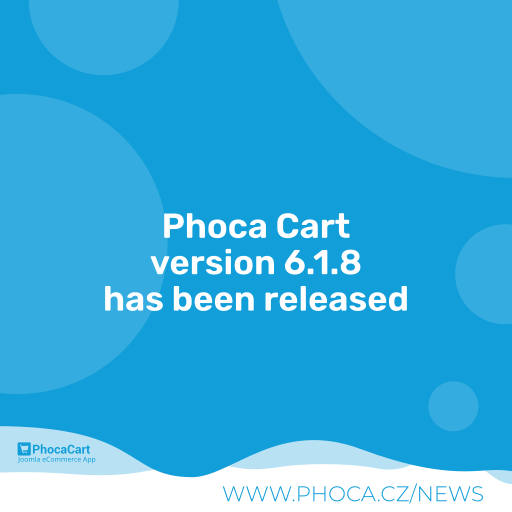
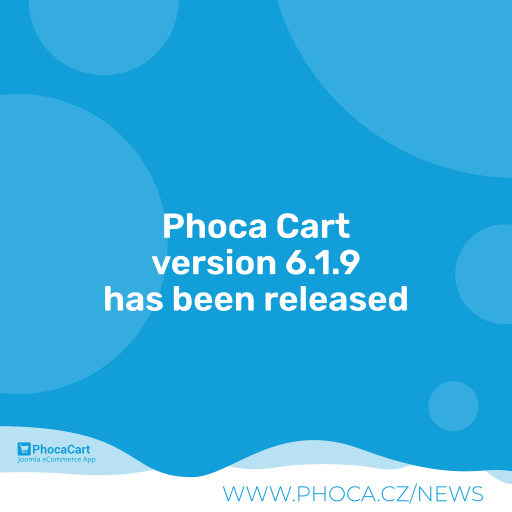
6.1.9

Changed region(s): [[0.2812, 0.4688, 0.7188, 0.5312]]

diff --git a/admin/help/en-GB/screen.phocacart.html b/admin/help/en-GB/screen.phocacart.html
@@ -70,8 +70,11 @@ body {
 <ul>
 <li><a href="https://www.phoca.cz/phocacartdemo/" target="_blank">Phoca Cart Demo</a></li>
 <li><a href="https://www.phoca.cz/phocacartdemo/premiere/" target="_blank">Phoca Cart - Phoca Premiere Template Demo</a></li>
-<li><a href="https://www.phoca.cz/stockphoto/" target="_blank">Phoca Cart Demo - Phoca Stock Photo</a></li>
 <li><a href="https://www.phoca.cz/phocacartdemo/astroid/" target="_blank">Phoca Cart - Astroid Framework Demo</a></li>
+<li><a href="https://www.phoca.cz/phocacartdemo/yootheme/" target="_blank">Phoca Cart - YOOtheme Framework Demo</a></li>
+<li><a href="https://www.phoca.cz/stockphoto/" target="_blank">Phoca Cart Demo - Phoca Stock Photo</a></li>
+<li><a href="https://www.phoca.cz/phocacart5demo/" target="_blank">Phoca Cart (Joomla 5)</a></li>
+<li><a href="https://www.phoca.cz/phocacart4demo/" target="_blank">Phoca Cart (Joomla 4)</a></li>
 <li><a href="https://www.phoca.cz/jtd/" target="_blank">Joomla! Templates Directory</a></li>
 </ul>
 <p>&nbsp;</p>

diff --git a/admin/help/screen.phocacart.html b/admin/help/screen.phocacart.html
@@ -70,8 +70,11 @@ body {
 <ul>
 <li><a href="https://www.phoca.cz/phocacartdemo/" target="_blank">Phoca Cart Demo</a></li>
 <li><a href="https://www.phoca.cz/phocacartdemo/premiere/" target="_blank">Phoca Cart - Phoca Premiere Template Demo</a></li>
-<li><a href="https://www.phoca.cz/stockphoto/" target="_blank">Phoca Cart Demo - Phoca Stock Photo</a></li>
 <li><a href="https://www.phoca.cz/phocacartdemo/astroid/" target="_blank">Phoca Cart - Astroid Framework Demo</a></li>
+<li><a href="https://www.phoca.cz/phocacartdemo/yootheme/" target="_blank">Phoca Cart - YOOtheme Framework Demo</a></li>
+<li><a href="https://www.phoca.cz/stockphoto/" target="_blank">Phoca Cart Demo - Phoca Stock Photo</a></li>
+<li><a href="https://www.phoca.cz/phocacart5demo/" target="_blank">Phoca Cart (Joomla 5)</a></li>
+<li><a href="https://www.phoca.cz/phocacart4demo/" target="_blank">Phoca Cart (Joomla 4)</a></li>
 <li><a href="https://www.phoca.cz/jtd/" target="_blank">Joomla! Templates Directory</a></li>
 </ul>
 <p>&nbsp;</p>

diff --git a/admin/libraries/phocacart/download/download.php b/admin/libraries/phocacart/download/download.php
@@ -157,6 +157,19 @@ class PhocacartDownload
 			return false;
 		}
 
+        // CHECK USER AND TOKEN
+        $isOwner = ((int)$user->id > 0 && isset($file->userid) && (int)$user->id === (int)$file->userid);
+
+        if (!$isOwner) {
+            // Guest or non-owner must supply BOTH tokens, and they must match the stored values
+            if ($tokenDownload === '' || $tokenOrder === ''
+                || !isset($file->download_token) || !isset($file->order_token)
+                || !hash_equals((string)$file->download_token, (string)$tokenDownload)
+                || !hash_equals((string)$file->order_token, (string)$tokenOrder)) {
+                return false;
+            }
+        }
+
 
 
 		// CHECK COUNT

diff --git a/admin/libraries/phocacart/order/status.php b/admin/libraries/phocacart/order/status.php
@@ -777,7 +777,7 @@ class PhocacartOrderStatus
             $emailSend = $status['email_send'];
         }
 
-        if ($emailSendFormat === 99) {
+        if ($emailSendFormat == '99') {
             $emailSendFormat = $status['email_send_format'];
         }
 

diff --git a/README.MD b/README.MD
@@ -94,8 +94,11 @@ If you need additional information beyond this GitHub repository, further docume
 
 - [Phoca Cart Demo](https://www.phoca.cz/phocacartdemo/)
 - [Phoca Cart - Phoca Premiere Template Demo](https://www.phoca.cz/phocacartdemo/premiere/)
-- [Phoca Cart Demo - Phoca Stock Photo](https://www.phoca.cz/stockphoto/)
 - [Phoca Cart - Astroid Framework Demo](https://www.phoca.cz/phocacartdemo/astroid/)
+- [Phoca Cart - YOOtheme Framework Demo](https://www.phoca.cz/phocacartdemo/yootheme/)
+- [Phoca Cart Demo - Phoca Stock Photo](https://www.phoca.cz/stockphoto/)
+- [Phoca Cart (Joomla 5)](https://www.phoca.cz/phocacart5demo/)
+- [Phoca Cart (Joomla 4)](https://www.phoca.cz/phocacart4demo/)
 - [Joomla! Templates Directory](https://www.phoca.cz/jtd/)
 
 ### Version (Joomla! 3.x - no longer supported)
@@ -105,7 +108,7 @@ If you need additional information beyond this GitHub repository, further docume
 ### Version (Joomla! 5.x - no longer supported)
 5.2.4
 ### Version (Joomla! 6.x)
-6.1.8
+6.1.9
 
 ### License
 
